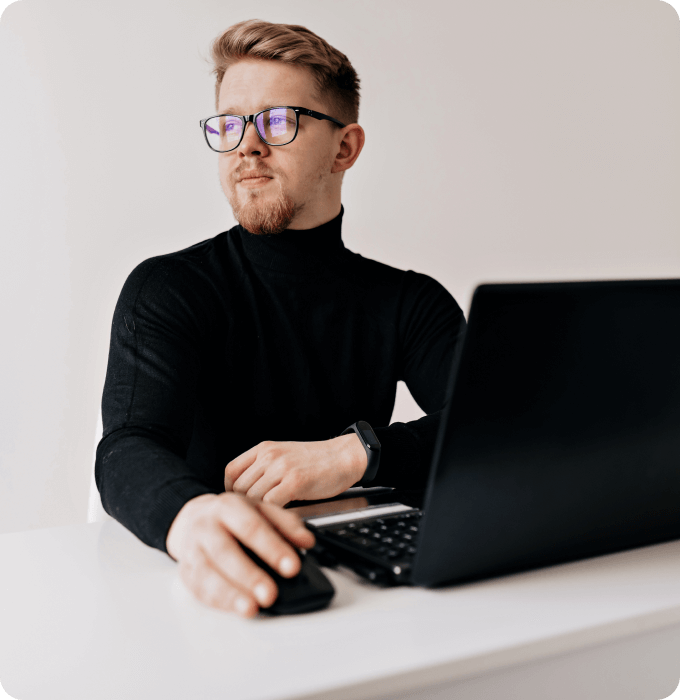
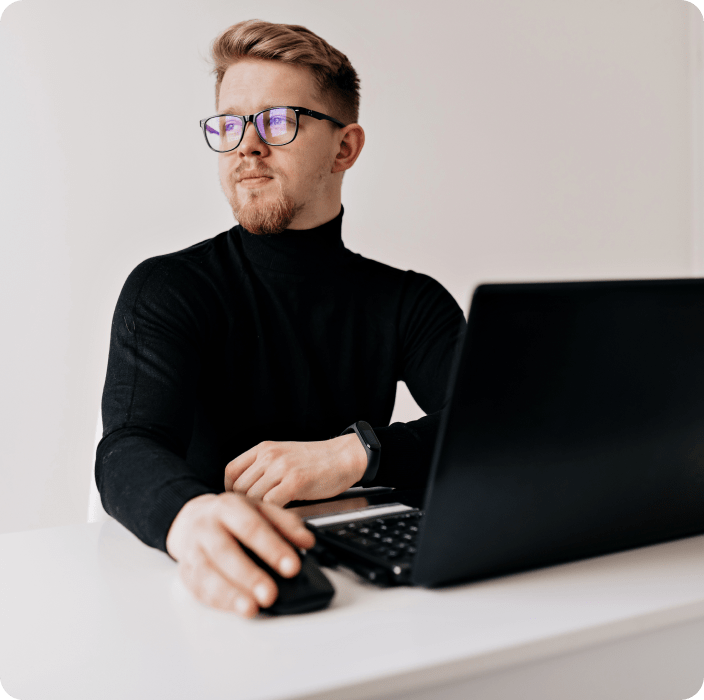
work with img section about and covers

diff --git a/src/partials/about.html b/src/partials/about.html
@@ -9,7 +9,16 @@
       </h2>
       <img
         class="about-hero-img"
-        src="./img/mobile/hero@2x.png"
+        srcset="
+          ./img/mobile/hero.png      343w,
+          ./img/mobile/hero@2x.png   686w,
+          ./img/tablet/hero.png      704w,
+          ./img/tablet/hero@2x.png  1408w,
+          ./img/dekstop/hero.png     680w,
+          ./img/dekstop/hero@2x.png 1360w
+        "
+        sizes="(min-width: 1440px) 680px, (min-width: 768px) 704px,  (max-width: 767px) 343px "
+        src="./img/mobile/hero.png"
         alt="Person working on a laptop"
       />
     </div>

diff --git a/src/css/covers.css b/src/css/covers.css
@@ -7,6 +7,8 @@
   position: relative;
   height: 508px;
   overflow: hidden;
+  backdrop-filter: blur(30px);
+  background-color: rgba(217, 217, 217, 0.04);
   background-image: url(../img/covers/bg-covers/bg-covers-mob.png);
   background-size: cover;
   background-position: 50% 50%;
